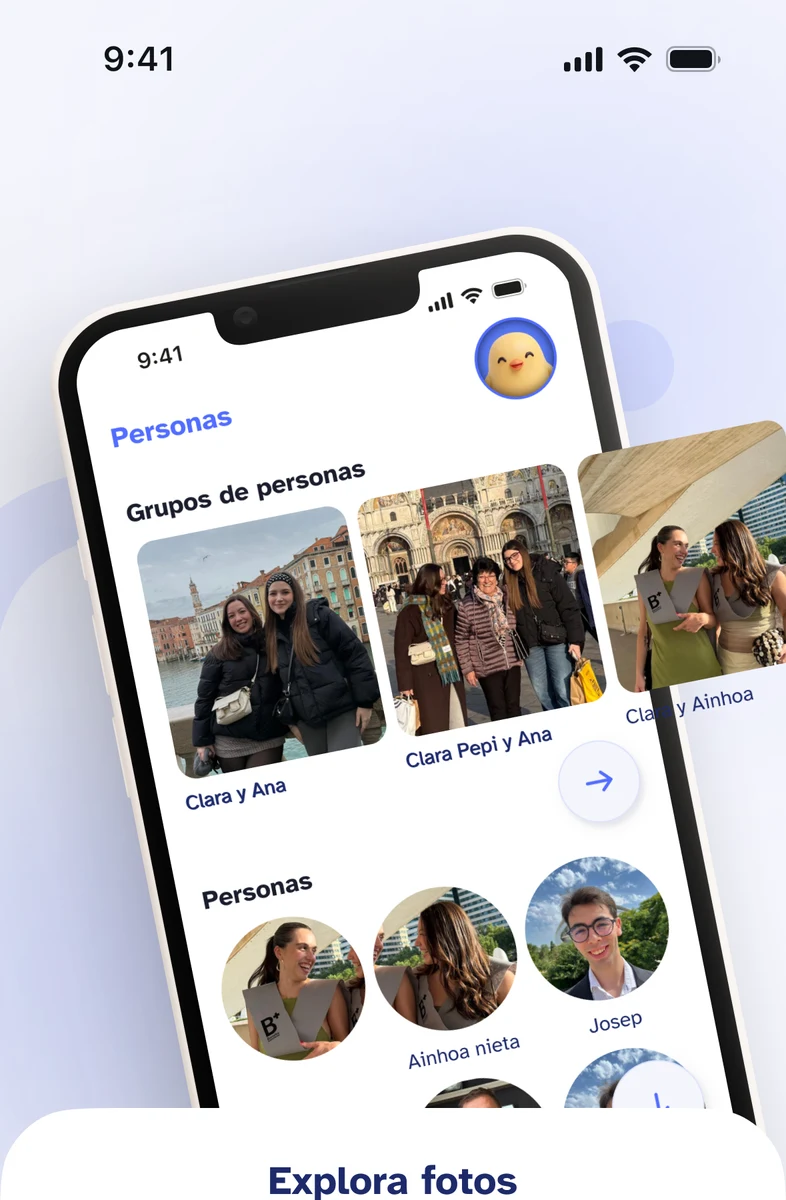
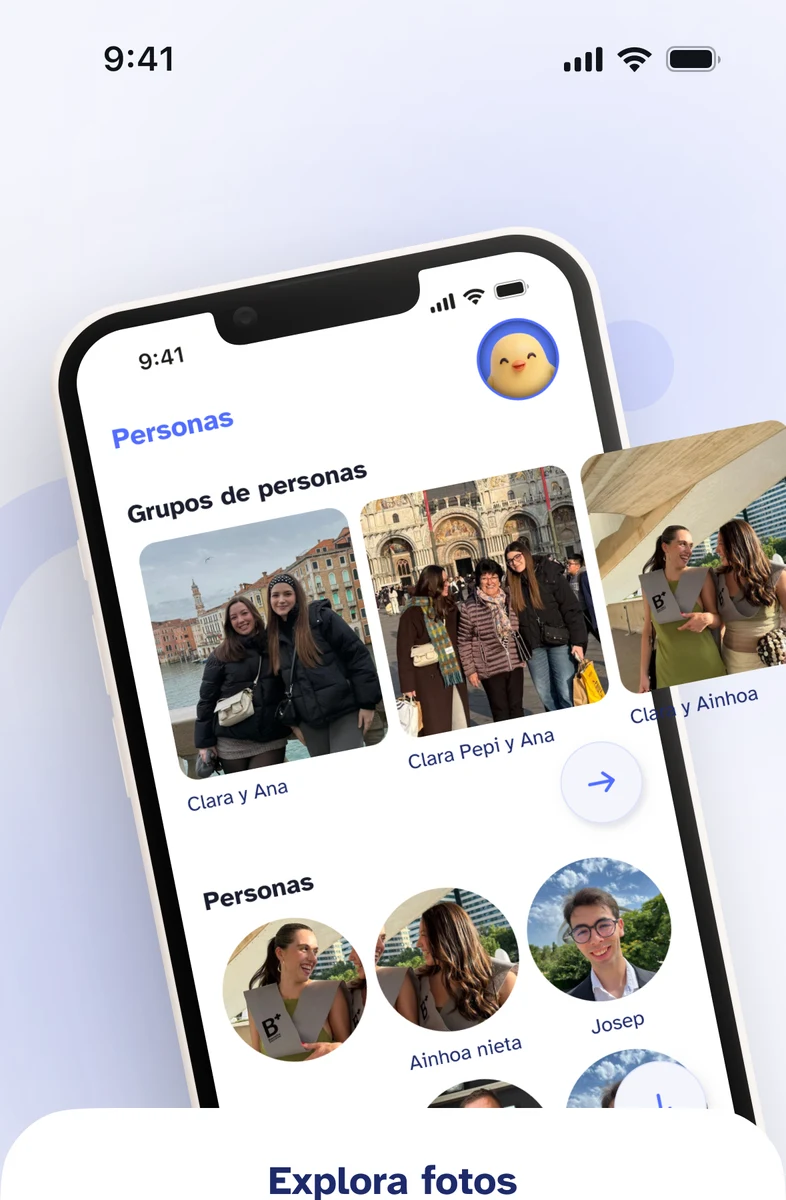
Intro 1: ilustración nueva sin el texto duplicado en las fotos de arriba

diff --git a/Prototipo/index.html b/Prototipo/index.html
@@ -321,7 +321,7 @@
     <!-- brillos y sombras) sale de la exportación de Clara, con su barra de estado; título, texto, puntos y botón son HTML.       -->
     <!-- ============================================================ -->
     <section class="screen screen--intro" data-screen="intro-1">
-      <img class="intro-ilustracion" src="assets/img/intro-1.webp" alt="Un móvil con la pantalla Personas de Nido: grupos de personas y sus fotos" />
+      <img class="intro-ilustracion" src="assets/img/intro-1.webp?v=2" alt="Un móvil con la pantalla Personas de Nido: grupos de personas y sus fotos" />
       <div class="intro-hoja"></div>
       <div class="intro-contenido">
         <div class="intro-textos">
